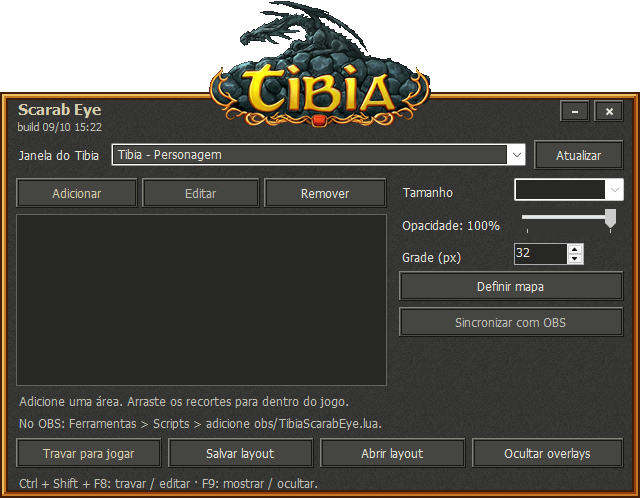
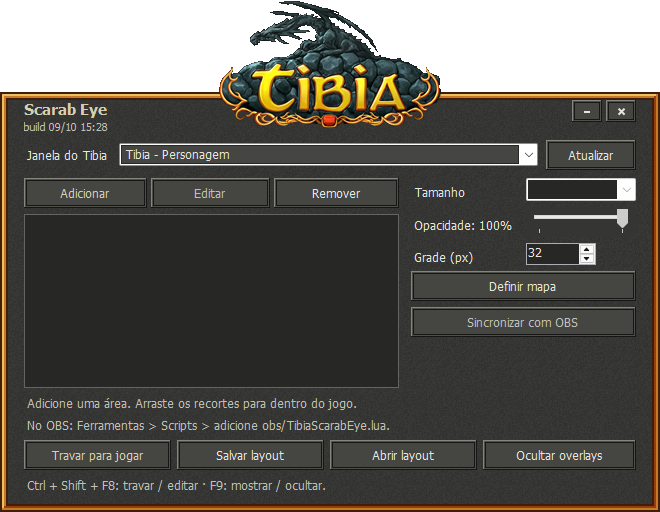
fix(ui): aumenta o padding interno em relacao a borda dourada
Conteudo passa de 8 para 16 px das laterais da borda e ganha 12 px na base;
titulo e botoes da faixa superior alinham com o mesmo recuo. Largura minima
sobe de 560 para 580. O teste de preview fixa o estado dos atalhos para a
imagem da documentacao nao depender de outra instancia aberta.

Changed region(s): [[0.0, 0.0, 1.0, 0.6928], [0.0, 0.753, 1.0, 0.994]]

diff --git a/src/TibiaScarabEye/UI/FramelessForm.cs b/src/TibiaScarabEye/UI/FramelessForm.cs
@@ -54,7 +54,7 @@ internal abstract class FramelessForm : Form {
         base.OnSizeChanged(e);
         if(ClientSize.Width<=0 || ClientSize.Height<=0) return;
         int y=Px(PanelTop)+Px(8), gap=Px(4);
-        close.SetBounds(ClientSize.Width-Px(Edge)-Px(8)-Px(CaptionButtonWidth),y,Px(CaptionButtonWidth),Px(CaptionButtonHeight));
+        close.SetBounds(ClientSize.Width-Px(Edge)-Px(16)-Px(CaptionButtonWidth),y,Px(CaptionButtonWidth),Px(CaptionButtonHeight));
         minimize.SetBounds(close.Left-gap-Px(CaptionButtonWidth),y,Px(CaptionButtonWidth),Px(CaptionButtonHeight));
         UpdateShape();
     }
@@ -89,7 +89,7 @@ internal abstract class FramelessForm : Form {
         base.OnPaint(e);
         Theme.GoldFrame(e.Graphics,PanelBounds,Px(2));
         if(scaledLogo!=null) e.Graphics.DrawImageUnscaled(scaledLogo,LogoBounds.Location);
-        var logo=LogoBounds; int left=Px(Edge)+Px(10), top=Px(PanelTop)+Px(8), width=logo.Left-left-Px(8);
+        var logo=LogoBounds; int left=Px(Edge)+Px(16), top=Px(PanelTop)+Px(8), width=logo.Left-left-Px(8);
         if(width<=0) return;
         using(var title=new Font("Tahoma",11,FontStyle.Bold)) using(var caption=new Font("Tahoma",8)) {
             TextRenderer.DrawText(e.Graphics,BandTitle,title,new Rectangle(left,top,width,title.Height+Px(2)),Theme.Gold,TextFormatFlags.Left|TextFormatFlags.EndEllipsis|TextFormatFlags.NoPadding);

diff --git a/src/TibiaScarabEye/UI/MainForm.cs b/src/TibiaScarabEye/UI/MainForm.cs
@@ -28,7 +28,7 @@ internal sealed class MainForm : FramelessForm {
     string sourceTitle="";
     bool locked, binding, dirty, hotkey, visibilityHotkey, overlaysHidden;
     readonly ToolTip tips=new ToolTip();
-    const int BodyRow=1, MinClientWidth=560;
+    const int BodyRow=1, MinClientWidth=580;
     readonly TableLayoutPanel layout, body, side;
     public MainForm() {
         Theme.Apply(this); Text="Tibia Scarab Eye"; BandTitle="Scarab Eye"; BandCaption="build "+BuildStamp();
@@ -79,10 +79,10 @@ internal sealed class MainForm : FramelessForm {
 
         var root=Table(Columns(PercentColumn(100)),sourceRow,main,detail,obs,actions,status);
         root.RowStyles[BodyRow]=new RowStyle(SizeType.Percent,100); layout=root;
-        root.AutoSize=false; root.Padding=new Padding(8,0,8,0);
+        root.AutoSize=false; root.Padding=new Padding(16,0,16,12);
         foreach(Control c in new Control[]{sourceRow,main,detail,obs,actions}) c.Margin=new Padding(0,0,0,8);
         Controls.Add(root);
-        ClientSize=new Size(640,498); MinimumSize=SizeFromClientSize(new Size(MinClientWidth,400));
+        ClientSize=new Size(660,512); MinimumSize=SizeFromClientSize(new Size(MinClientWidth,400));
 
         areas.SelectedIndexChanged+=delegate { BindSelection(); };
         areas.DoubleClick+=delegate { EditArea(); };

diff --git a/tests/TibiaScarabEye.Tests/Desktop/MainFormTests.cs b/tests/TibiaScarabEye.Tests/Desktop/MainFormTests.cs
@@ -23,6 +23,11 @@ public class MainFormTests
         windows.Items.Add(new WindowItem { Handle = main.Handle, Title = "Tibia - Personagem" });
         windows.SelectedIndex = 0;
 
+        // Os atalhos globais podem estar ocupados por outra instancia aberta; fixa o estado normal para a imagem da documentacao.
+        DesktopHarness.SetField(main, "hotkey", true);
+        DesktopHarness.SetField(main, "visibilityHotkey", true);
+        DesktopHarness.Call(main, "UpdateStatus");
+
         using var bitmap = DesktopHarness.RenderShaped(main);
         DesktopHarness.SaveArtifact(bitmap, "interface-preview.png");
         main.Close();
